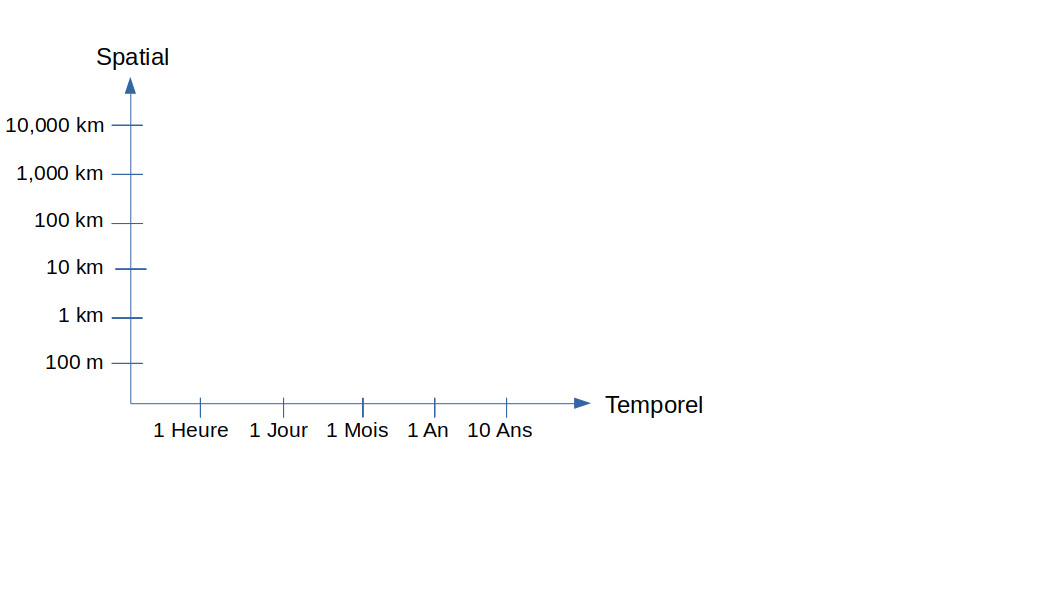
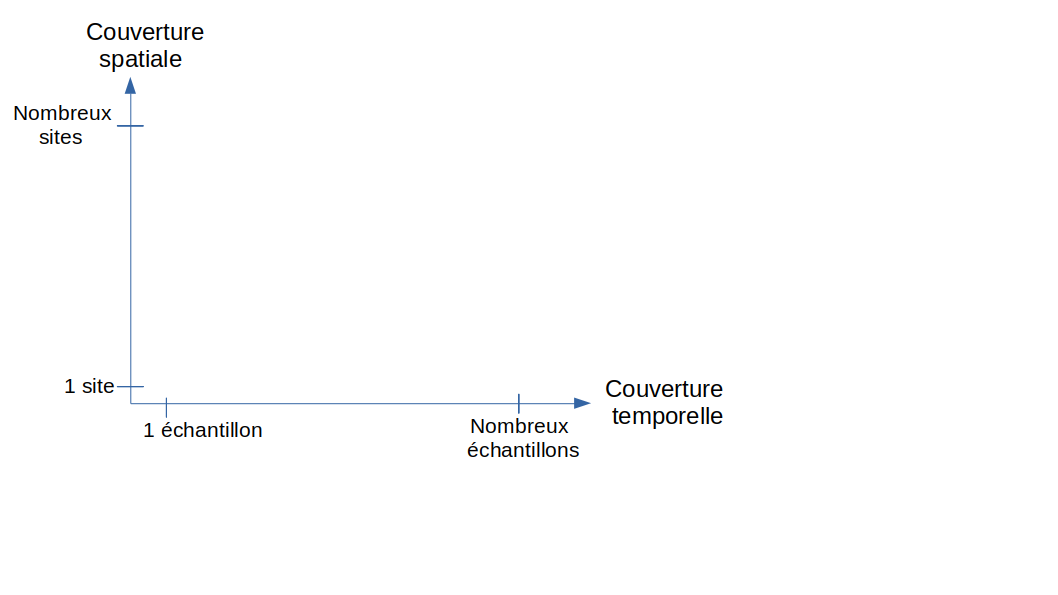
laura edits

diff --git a/index.html b/index.html
@@ -136,18 +136,18 @@ class: inverse, center, middle
 
 ## Qu'est ce qu'une donnée ?
 
-&lt;br /&gt;&lt;br /&gt;
+&lt;br /&gt;&lt;br /&gt;&lt;br /&gt;
 
 --
 
 - .big[Ce qui est **connu ou admis** comme tel]
-&lt;br /&gt;
+&lt;br /&gt;&lt;br /&gt;
 
 --
 &lt;!--end--&gt;
 
 - .big[Sur lequel on peut fonder un **raisonnement**]
-&lt;br /&gt;
+&lt;br /&gt;&lt;br /&gt;
 
 --
 &lt;!--end--&gt;
@@ -168,7 +168,7 @@ class: inverse, center, middle
 
 .big[**Structurées vs. non structurées**]
 
-
+&lt;img src="assets/img/data-types.png" width="95%" style="display: block; margin: auto;" /&gt;
 
 
 
@@ -183,7 +183,7 @@ class: inverse, center, middle
 
 &lt;br /&gt;
 
-- Schéma bien défini
+- Formatées selon une structure précise
 
 --
 
@@ -191,6 +191,9 @@ class: inverse, center, middle
 
 &lt;img src="assets/img/biodiv_an1.gif" width="95%" style="display: block; margin: auto;" /&gt;
 
+--
+
+NB : distinguer variables **quantitatives** et **qualitatives** (ordonnées vs non ordonnées)
 
 
 
@@ -326,7 +329,7 @@ Système mondial d'information sur la biodiversité marine (inclu dans GBIF)
   
 ## Les données de biodiversité
 
-.big[.orange[**Placer ces données selon des axes spatio-temporels**]] 
+.big[.orange[**Placer ces données selon la couverture spatio-temporelle**]] 
 
 -eBird ?
 
@@ -343,7 +346,7 @@ Système mondial d'information sur la biodiversité marine (inclu dans GBIF)
   
 ## Les données de biodiversité
 
-.big[.orange[**Placer ces données selon des axes spatio-temporels**]] 
+.big[.orange[**Placer ces données selon la couverture spatio-temporelle**]] 
 
 -eBird ?
 
